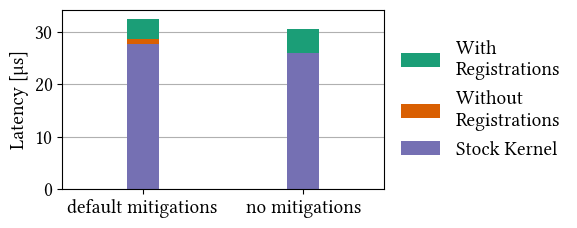
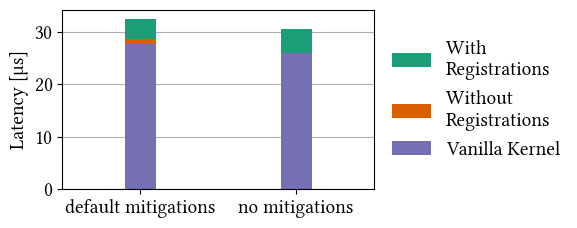
rename Stock Kernel to Vanilla Kernel

diff --git a/plotting/fork.py b/plotting/fork.py
@@ -27,7 +27,7 @@ GRID_ENABLE = True
 STACK = (
     ("fastcall", "fork-fastcall", "With\nRegistrations"),
     ("fastcall", "fork-simple", "Without\nRegistrations"),
-    ("stock", "fork-simple", "Stock Kernel"),
+    ("stock", "fork-simple", "Vanilla Kernel"),
 )
 """
 (kernel, measure, label) tuples describing the sections of the stacked bar plot.
